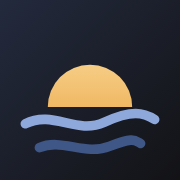
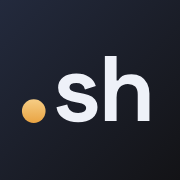
feature: ".sh" site mark
The site mark is now ".sh": the initials as a shell script, in Space
Grotesk Bold (the heading font) after a gold dot, the full stop the
headings end with. The letters are outlines taken from the self-hosted
font at weight 700, so the SVG favicon needs no font to load. The nav
draws the same artwork, and its dot lifts on hover or focus.

The 32px and 180px icons and the link preview are re-rendered from it,
and assets.test.tsx now also compares fills, so the nav mark and the
favicon still can't drift apart.

Changed region(s): [[0.1111, 0.3056, 0.8889, 0.75], [0.1944, 0.75, 0.8056, 0.8611]]

diff --git a/src/components/Icons.tsx b/src/components/Icons.tsx
@@ -54,14 +54,15 @@ export const DownloadIcon = () => (
   </svg>
 );
 
-// Site mark: a low sun setting over two contour lines, in the sun gold and
-// blues of the palette. Same artwork as public/favicon.svg, without the tile
-// (assets.test.tsx checks that they match). The sun is clipped at the horizon
-// and has the class "mark-sun", so the nav can let it rise on hover.
+// Site mark: ".sh", the initials as a shell script, in Space Grotesk Bold
+// (as outlines) after the gold full stop the headings end with. Same
+// artwork as public/favicon.svg, without the tile (assets.test.tsx checks
+// that they match). The dot has the class "mark-dot", so the nav can lift
+// it on hover.
 export const Mark = () => (
   <svg
     xmlns="http://www.w3.org/2000/svg"
-    viewBox="7 21 50 37"
+    viewBox="6 17 52 29"
     width="100%"
     height="100%"
     aria-hidden="true"
@@ -71,32 +72,21 @@ export const Mark = () => (
         <stop offset="0" stopColor="#f6cd85" />
         <stop offset="1" stopColor="#e9a443" />
       </linearGradient>
-      <clipPath id="mark-sky">
-        <rect width="64" height="38" />
-      </clipPath>
     </defs>
-    <g clipPath="url(#mark-sky)">
-      <circle
-        className="mark-sun"
-        cx="32"
-        cy="38"
-        r="15"
-        fill="url(#mark-sun)"
-      />
-    </g>
-    <path
-      d="M9 44 C 19 39, 27 48, 37 43.5 S 51 40, 55 42.5"
-      fill="none"
-      stroke="#8fa8dc"
-      strokeWidth="3.4"
-      strokeLinecap="round"
+    <circle
+      className="mark-dot"
+      cx="12"
+      cy="39.5"
+      r="4.2"
+      fill="url(#mark-sun)"
     />
     <path
-      d="M14 52.5 C 22 49, 30 55.5, 39 52 S 48 50, 50 51"
-      fill="none"
-      stroke="#3f5787"
-      strokeWidth="3.4"
-      strokeLinecap="round"
+      d="M27.8 43.46Q24.6 43.46 22.55 42.08Q20.5 40.69 20.08 38.12L23.9 37.13Q24.13 38.28 24.68 38.94Q25.22 39.6 26.03 39.88Q26.84 40.16 27.8 40.16Q29.25 40.16 29.94 39.65Q30.64 39.14 30.64 38.38Q30.64 37.62 29.98 37.21Q29.32 36.8 27.86 36.53L26.94 36.37Q25.22 36.04 23.8 35.46Q22.39 34.88 21.53 33.86Q20.67 32.84 20.67 31.22Q20.67 28.78 22.45 27.47Q24.23 26.17 27.14 26.17Q29.88 26.17 31.69 27.39Q33.51 28.61 34.07 30.59L30.21 31.78Q29.94 30.53 29.13 30Q28.33 29.47 27.14 29.47Q25.95 29.47 25.32 29.88Q24.7 30.3 24.7 31.02Q24.7 31.81 25.36 32.19Q26.02 32.57 27.14 32.77L28.06 32.94Q29.91 33.27 31.41 33.81Q32.91 34.35 33.79 35.36Q34.66 36.37 34.66 38.08Q34.66 40.66 32.8 42.06Q30.93 43.46 27.8 43.46Z"
+      fill="#eef1f8"
+    />
+    <path
+      d="M37.29 43V19.9H41.45V28.64H42.04Q42.31 28.12 42.87 27.59Q43.43 27.06 44.37 26.71Q45.31 26.37 46.76 26.37Q48.68 26.37 50.11 27.24Q51.55 28.12 52.34 29.65Q53.13 31.19 53.13 33.23V43H48.97V33.56Q48.97 31.71 48.07 30.79Q47.16 29.87 45.48 29.87Q43.56 29.87 42.51 31.14Q41.45 32.41 41.45 34.68V43Z"
+      fill="#eef1f8"
     />
   </svg>
 );

diff --git a/src/assets.test.tsx b/src/assets.test.tsx
@@ -41,11 +41,12 @@ describe("image budget", () => {
 
 describe("brand mark", () => {
   // The nav mark and the favicon are two copies of one drawing. Compare the
-  // sun and the contour lines (the favicon's tile rects are left out).
+  // dot and the letters (the favicon's tile rects are left out; gradient
+  // fills differ only in their ids).
   const shapes = (root: ParentNode) =>
     [...root.querySelectorAll("circle, path")].map((el) =>
-      ["cx", "cy", "r", "d", "stroke", "stroke-width"]
-        .map((a) => el.getAttribute(a))
+      ["cx", "cy", "r", "d", "fill", "stroke", "stroke-width"]
+        .map((a) => el.getAttribute(a)?.replace(/^url\(.*\)$/, "url"))
         .join(" "),
     );
 

diff --git a/src/components/TopNav.tsx b/src/components/TopNav.tsx
@@ -55,17 +55,17 @@ const Brand = styled.span`
   gap: 12px;
 
   svg {
-    width: 30px;
-    height: 22px;
+    width: 41px;
+    height: 23px;
     flex-shrink: 0;
   }
-  /* The sun rises a little above the horizon on hover. */
-  .mark-sun {
+  /* The gold dot lifts a little on hover, like a prompt waiting. */
+  .mark-dot {
     transition: transform 400ms ease;
   }
-  a:hover & .mark-sun,
-  a:focus-visible & .mark-sun {
-    transform: translateY(-4px);
+  a:hover & .mark-dot,
+  a:focus-visible & .mark-dot {
+    transform: translateY(-5px);
   }
 
   /* Phones: the mark alone stands for Home, to make room for the

diff --git a/TODO.md b/TODO.md
@@ -18,13 +18,9 @@ finished items move to "Done" with their date.
    proves nothing was added to a recipe, or how Minnumst's CI checks that
    the hardening is idempotent. A `/notes/<slug>` page type would fit the
    pre-rendered routing as it is.
-4. **Choose the site mark.** The low sun over contour lines is live; the
-   `.sh` sketches (initials as a shell script) are the alternative. If
-   `.sh` wins, draw the letters as paths (an SVG favicon can't load web
-   fonts), then re-render `favicon-32.png`, `apple-touch-icon.png` and
-   `og-image.jpg`.
+4. ~~Choose the site mark~~: done 2026-11-06, `.sh` (see Done).
 5. **GitHub social card:** recapture the site screenshot after the next
-   deploy (it still shows the old "S" in the nav) and upload it by hand
+   deploy (it still shows the old "S" in the nav; the nav now shows `.sh`) and upload it by hand
    (Settings → Social preview).
 6. **Search Console:** after the routing change is deployed, submit
    `https://steinnhm.com/sitemap.xml` and check that the old hash links
@@ -58,4 +54,6 @@ finished items move to "Done" with their date.
   pre-rendered pages, per-page titles and link previews, a sitemap and a
   not-found page; inline critical CSS; phone hero with the actions on the
   first screen; consistent section headings; link preview re-rendered
-  with the graded portrait; low-sun site mark.
+  with the graded portrait; `.sh` site mark (the initials as a shell
+  script, in the heading font with its gold full stop), chosen over the
+  low sun.

diff --git a/README.md b/README.md
@@ -124,7 +124,8 @@ they're displayed (logos 340px, portrait 480px, backdrops 1280px plus an
 image and 250 KB in total. Keep the raw camera files out of git (see
 `.gitignore`).
 
-The site mark (a low sun over two contour lines) is `public/favicon.svg`;
+The site mark (".sh": the initials as a shell script, with the gold full
+stop of the headings) is `public/favicon.svg`;
 the nav draws the same artwork (`Mark` in `src/components/Icons.tsx`), and
 `src/assets.test.tsx` fails if the two differ. `favicon-32.png`,
 `apple-touch-icon.png` (180px, full bleed) and `og-image.jpg` (1200×630)
